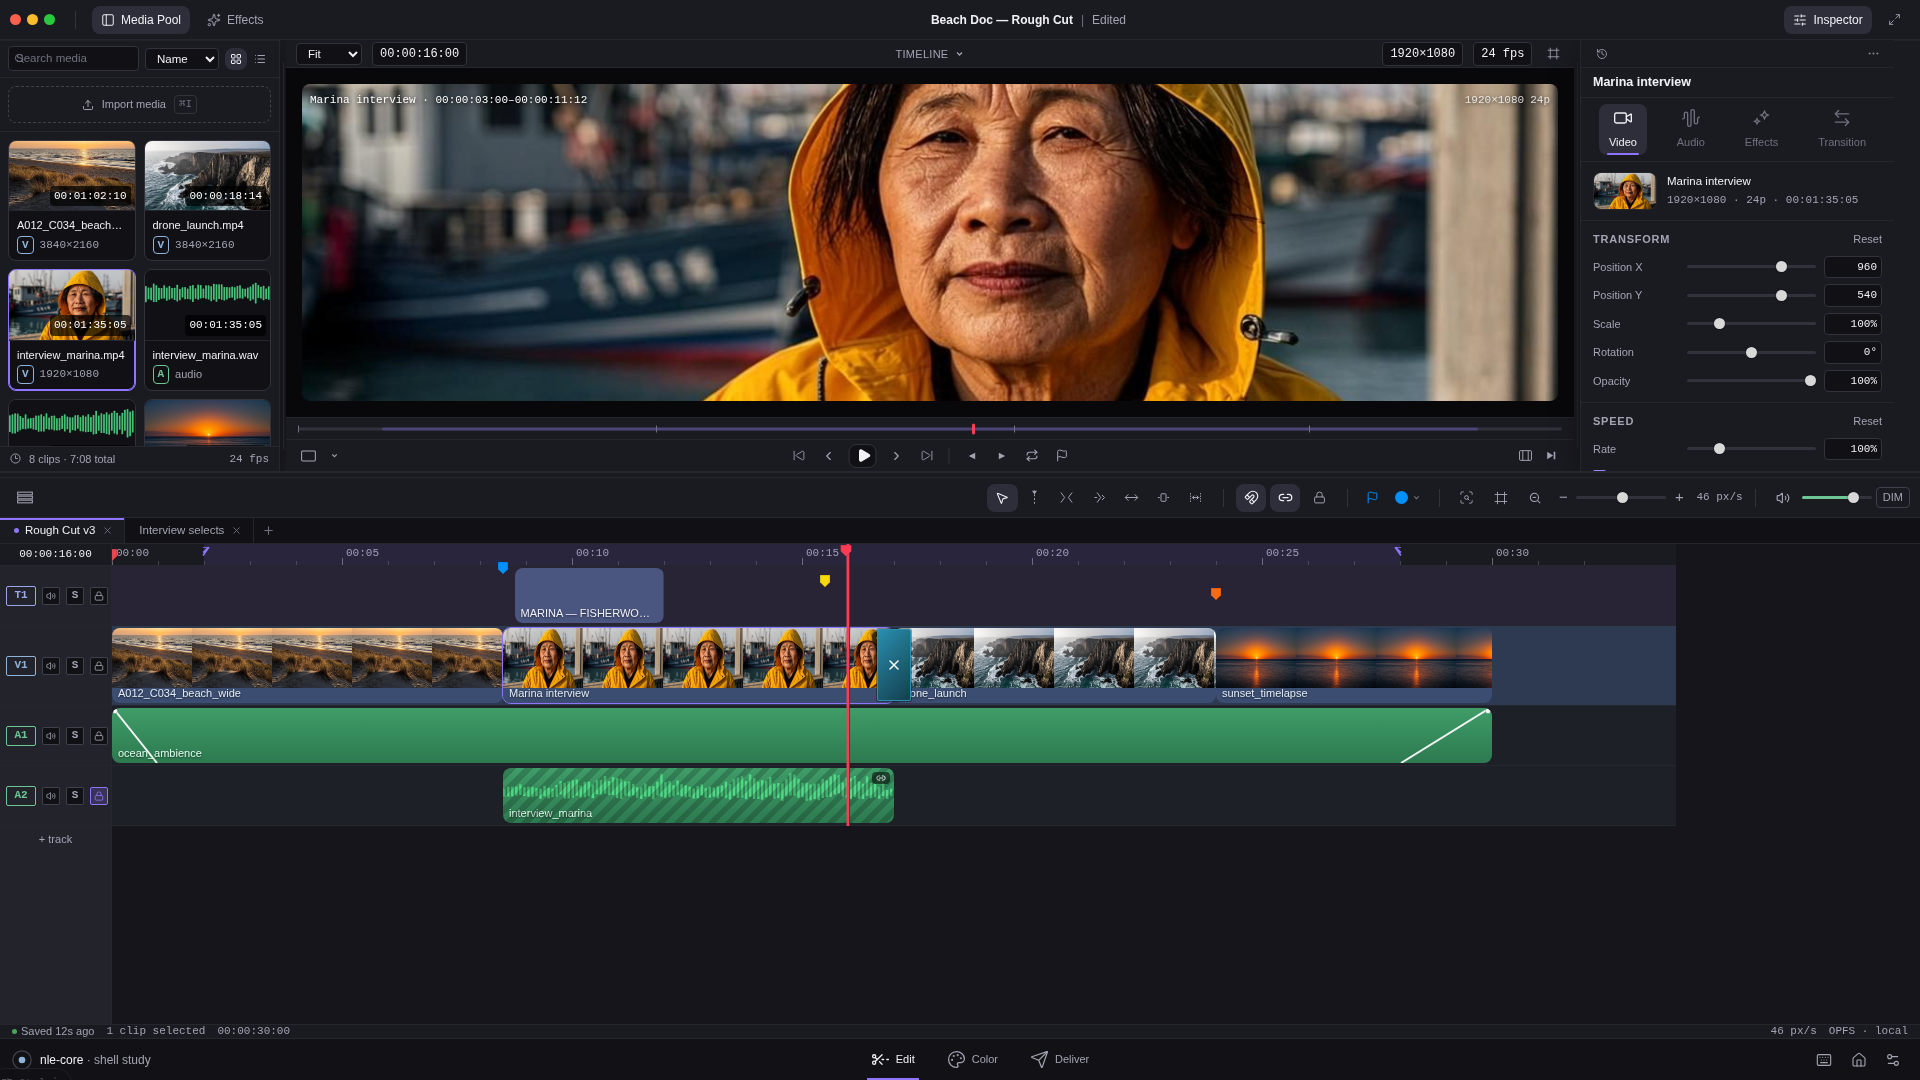
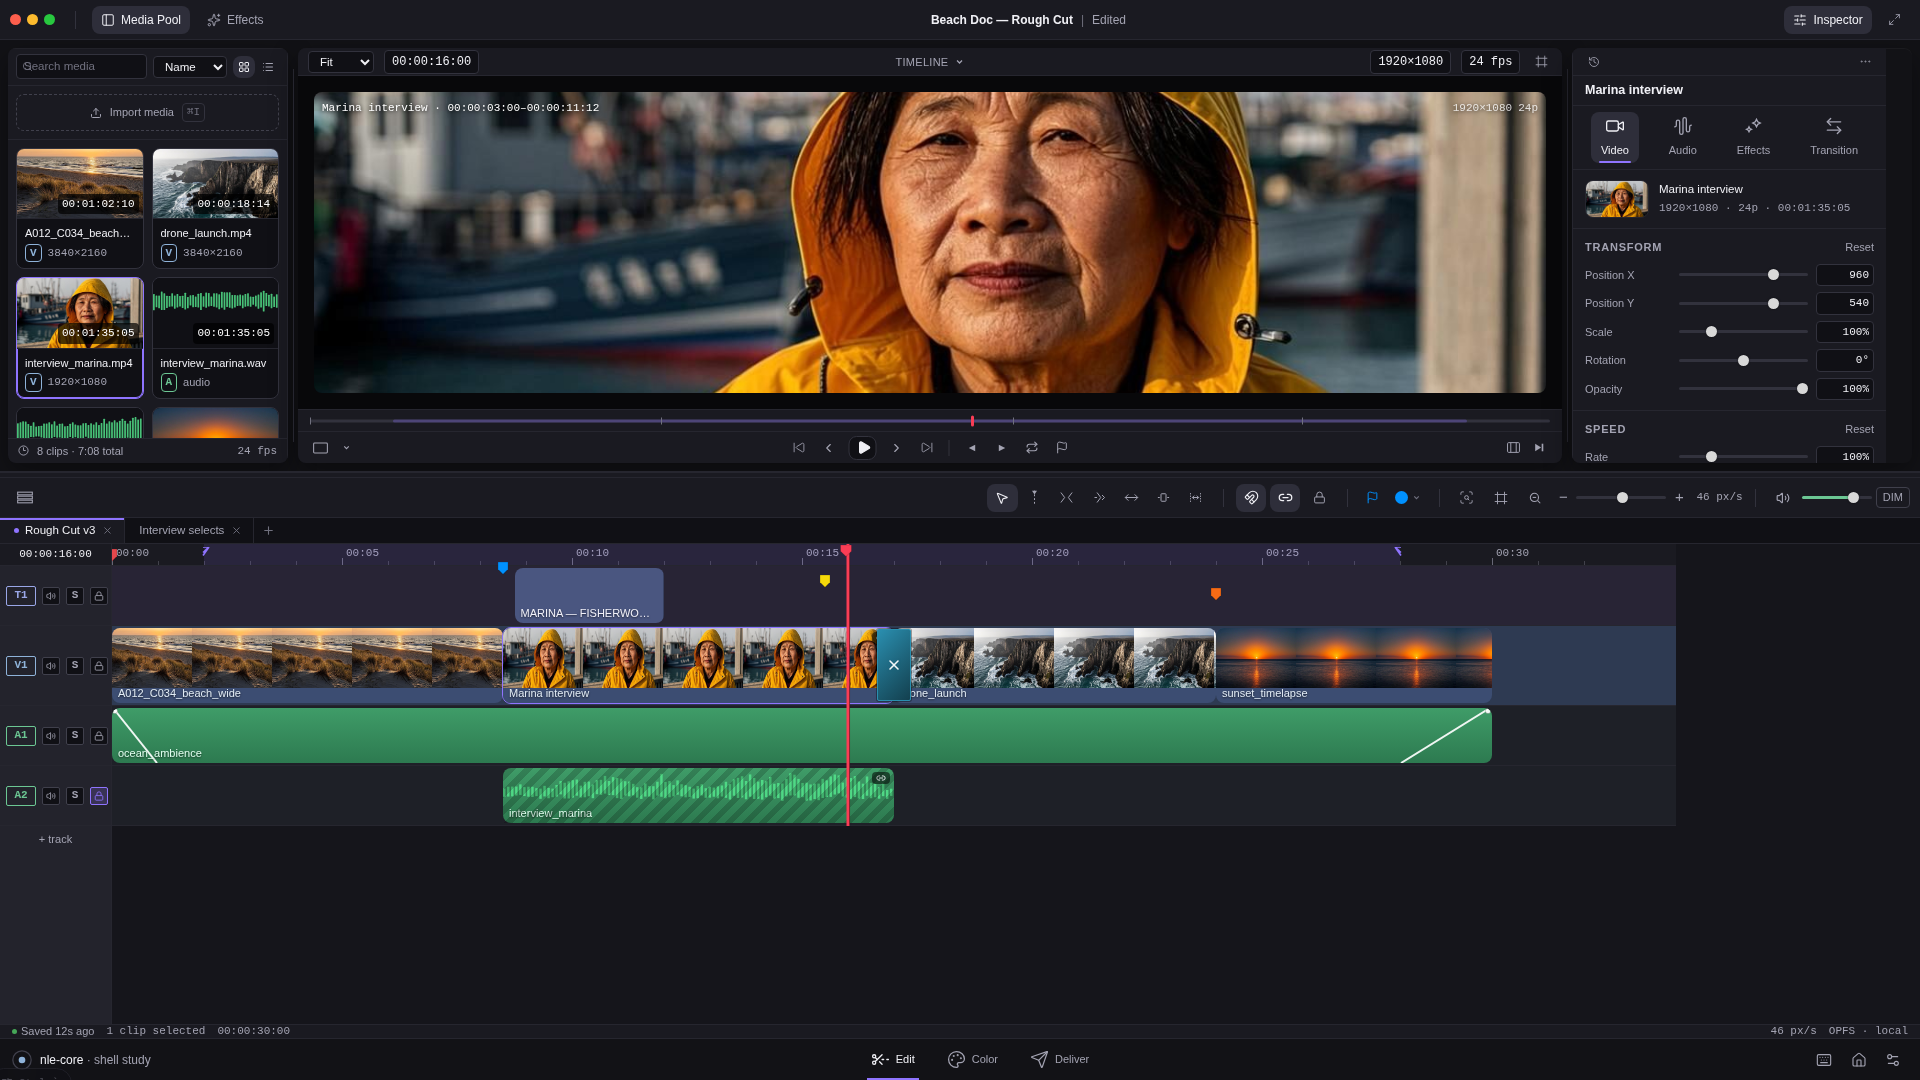
ui-mock: R3 gate fix — mainbody class actually applied (floating panels), light gold AA pair
- R3 caught the R2 gap: floating-panel CSS existed but no element carried
  .mainbody — added to the AppShell main-body row; studio/light now pad
  8px on bg-app with rounded+shadowed panels, resolve stays flush
  (live-verified: computed padding 8px studio / 0px resolve)
- light accent-gold darkened to #8a5f14 (CTA pair now 4.5:1+)
- remaining informational faint text promoted to muted (effects on/off,
  inactive inspector tabs, deliver hints)

diff --git a/ui-mock/shell-variants/src/components/shell/Inspector.tsx b/ui-mock/shell-variants/src/components/shell/Inspector.tsx
@@ -152,7 +152,7 @@ export function Inspector() {
               aria-controls={`insp-${t.id}`}
               data-testid={`shell-inspector-tab-${t.id}`}
               onClick={() => setTab(t.id)}
-              className={`relative flex flex-col items-center gap-1.5 rounded-[var(--radius)] px-2.5 py-1 transition-colors ${active ? 'bg-[var(--active-overlay)] text-tprimary' : 'text-tfaint hover:text-tmuted'}`}
+              className={`relative flex flex-col items-center gap-1.5 rounded-[var(--radius)] px-2.5 py-1 transition-colors ${active ? 'bg-[var(--active-overlay)] text-tprimary' : 'text-tmuted hover:text-tprimary'}`}
             >
               <Icon size={20} strokeWidth={1.6} />
               <span className="text-[11px]">{t.label}</span>
@@ -202,7 +202,7 @@ export function Inspector() {
               <div key={fx.id} className="flex items-center justify-between gap-2 rounded-[var(--radius)] border border-soft px-2 py-1.5">
                 <span className="text-[11.5px] text-tprimary">{fx.name}</span>
                 <span className="flex items-center gap-2">
-                  <span className="text-[11px] text-tfaint">{fx.enabled ? 'on' : 'off'}</span>
+                  <span className="text-[11px] text-tmuted">{fx.enabled ? 'on' : 'off'}</span>
                   <input
                     type="checkbox"
                     checked={fx.enabled}

diff --git a/ui-mock/shell-variants/src/components/shell/AppShell.tsx b/ui-mock/shell-variants/src/components/shell/AppShell.tsx
@@ -214,11 +214,11 @@ export function AppShell() {
 
       {/* ---- main body ---- */}
       <div
-        className="flex shrink-0 overflow-hidden border-b border-hairline"
+        className="mainbody flex shrink-0 overflow-hidden border-b border-hairline"
         style={{ height: mainBodyH || '40%', minHeight: 320 }}
       >
         {panels.mediaPool && (
-          <div ref={(el) => { regionsRef.current[1] = el; }} tabIndex={-1} className="shell-region flex h-full min-h-0 shrink-0" style={{ width: mediaW }}>
+          <div ref={(el) => { regionsRef.current[1] = el; }} tabIndex={-1} className="shell-region panel-shadow flex h-full min-h-0 shrink-0" style={{ width: mediaW }}>
             <MediaPool />
           </div>
         )}
@@ -227,7 +227,7 @@ export function AppShell() {
         )}
         {panels.effects && <EffectsPanel />}
 
-        <div ref={(el) => { regionsRef.current[2] = el; }} tabIndex={-1} className="shell-region flex min-h-0 min-w-0 flex-1">
+        <div ref={(el) => { regionsRef.current[2] = el; }} tabIndex={-1} className="shell-region panel-shadow flex min-h-0 min-w-0 flex-1">
           <Viewer duration={duration} />
         </div>
 

diff --git a/ui-mock/shell-variants/src/components/pages/DeliverPage.tsx b/ui-mock/shell-variants/src/components/pages/DeliverPage.tsx
@@ -83,7 +83,7 @@ export function DeliverPage() {
           <div className="flex items-center gap-2">
             <span className="w-[92px] shrink-0 text-[11px] text-tmuted">Bundle media</span>
             <input type="checkbox" defaultChecked className="accent-[var(--accent-focus)]" aria-label="Bundle media with FCPXML" />
-            <span className="text-[11px] text-tfaint">sidecar files for round-trip (spec 10)</span>
+            <span className="text-[11px] text-tmuted">sidecar files for round-trip (spec 10)</span>
           </div>
         </div>
 

diff --git a/ui-mock/shell-variants/src/styles/app.css b/ui-mock/shell-variants/src/styles/app.css
@@ -128,8 +128,8 @@ body {
   padding: 8px;
   background: var(--bg-app);
 }
-[data-theme="studio"] .mainbody > .shell-region,
-[data-theme="light"] .mainbody > .shell-region {
+[data-theme="studio"] .mainbody > *:not([role="separator"]),
+[data-theme="light"] .mainbody > *:not([role="separator"]) {
   border-radius: var(--radius);
   overflow: hidden;
 }

diff --git a/ui-mock/shell-variants/src/styles/tokens.css b/ui-mock/shell-variants/src/styles/tokens.css
@@ -174,7 +174,7 @@
 
   --shadow-panel: 0 1px 3px rgba(20, 20, 30, 0.08), 0 8px 24px rgba(20, 20, 30, 0.07);
 
-  --accent-gold: #a6721c;
+  --accent-gold: #8a5f14;        /* darkened for 4.5:1+ text pairs on light */
   --accent-ember: #e5484d;
   --accent-violet: #6e56cf;
   --accent-focus: #6e56cf;
